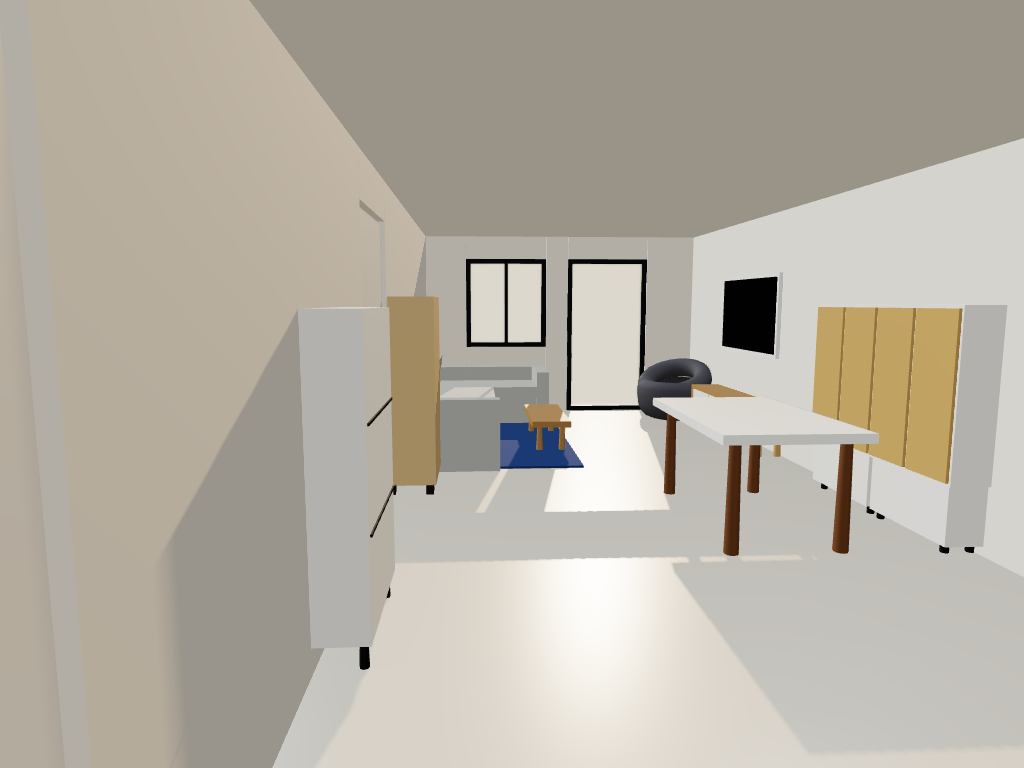
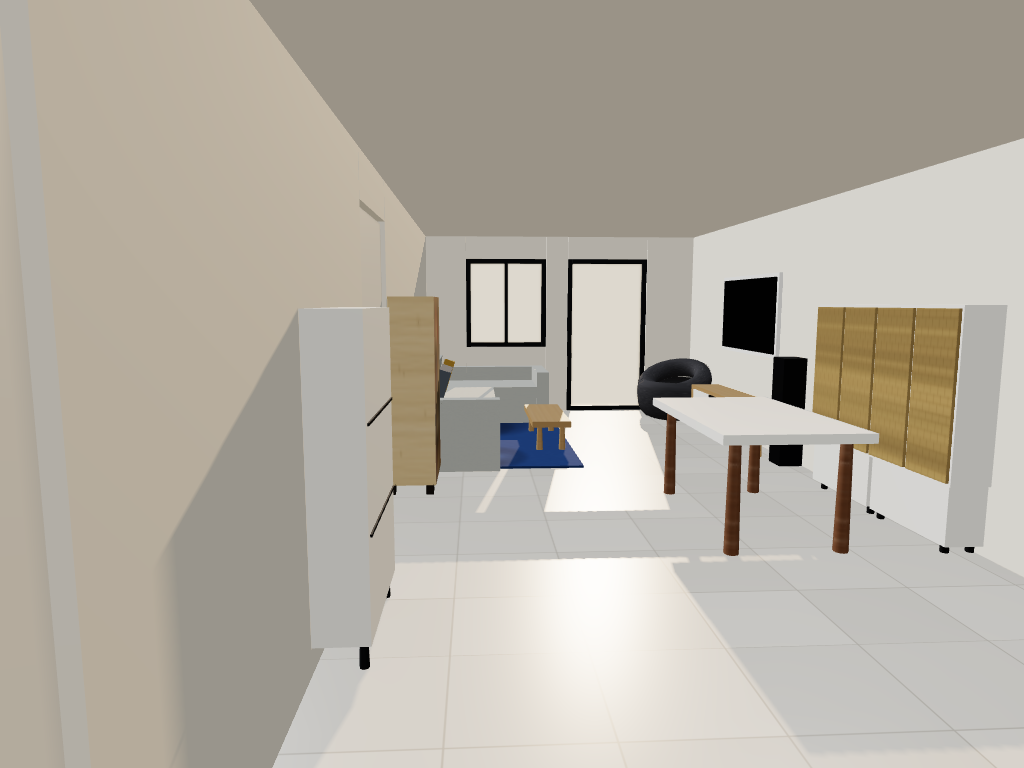
spike 2: D4 — rung 2 procedural textures + interior detail (C1 passed)
C1 verdict on the rungs 0-1 contact sheet: proceed. Rung 2 per the D2
memo's procedural recipes: seeded canvas textures for wood species (oak/
pine/pecan, wavy grain + knots), Lejde fabric w/ weave hatch + bump,
charcoal melange speckle, SONDEROD rug blobs + pile bump, cm-true 60cm
porcelain floor tiles w/ grout + anisotropy, bamboo weave (horizontal
slats — checkered cells mip into mosaic noise at room distance). Detail:
bookshelf front is now 2x4 cubbies of book spines (verified with a
dedicated camera shot), TV stand gained its open media shelf + black
unit, one tower speaker, two throw cushions. controls added to __dbg so
capture scripts can aim custom views.

diff --git a/spike/scene2.html b/spike/scene2.html
@@ -186,27 +186,208 @@ function std(opts) {
   return m;
 }
 
+/* ------------------------------------------------------------
+   RUNG 2 — procedural canvas textures (per D2 memo: procedural
+   clears the Tier 1 bar for every item; zero assets on disk).
+   Seeded RNG so every capture renders the identical scene.
+   ------------------------------------------------------------ */
+let _seed = 42;
+function R() { _seed = (_seed * 1664525 + 1013904223) >>> 0; return _seed / 4294967296; }
+const clamp8 = v => Math.max(0, Math.min(255, Math.round(v)));
+
+function makeCanvas(w, h, draw) {
+  const c = document.createElement("canvas");
+  c.width = w; c.height = h;
+  draw(c.getContext("2d"), w, h);
+  return c;
+}
+function colorTex(canvas, repeat = [1, 1]) {
+  const t = new THREE.CanvasTexture(canvas);
+  t.wrapS = t.wrapT = THREE.RepeatWrapping;
+  t.repeat.set(repeat[0], repeat[1]);
+  t.colorSpace = THREE.SRGBColorSpace;
+  return t;
+}
+function dataTex(canvas, repeat = [1, 1]) { // non-color (bump maps)
+  const t = new THREE.CanvasTexture(canvas);
+  t.wrapS = t.wrapT = THREE.RepeatWrapping;
+  t.repeat.set(repeat[0], repeat[1]);
+  return t;
+}
+
+// wood: wavy grain bands along x over a base tone, optional knots (the pine tell)
+function woodCanvas({ base, streak, contrast = 0.10, knots = 0 }) {
+  return makeCanvas(512, 512, (ctx) => {
+    ctx.fillStyle = base; ctx.fillRect(0, 0, 512, 512);
+    for (let i = 0; i < 150; i++) {
+      const y = R() * 512, phase = R() * Math.PI * 2;
+      ctx.globalAlpha = 0.04 + R() * contrast;
+      ctx.strokeStyle = R() < 0.72 ? streak : "#ffffff";
+      ctx.lineWidth = 1 + R() * 3;
+      ctx.beginPath();
+      for (let x = 0; x <= 512; x += 32) {
+        const yy = y + Math.sin(x / 512 * Math.PI * 2 + phase) * 3;
+        x === 0 ? ctx.moveTo(x, yy) : ctx.lineTo(x, yy);
+      }
+      ctx.stroke();
+    }
+    ctx.globalAlpha = 1;
+    for (let k = 0; k < knots; k++) {
+      const kx = 60 + R() * 392, ky = 60 + R() * 392, kr = 8 + R() * 10;
+      for (let ring = kr; ring > 0; ring -= 2.5) {
+        ctx.globalAlpha = 0.10 + 0.05 * (kr - ring) / kr;
+        ctx.strokeStyle = streak;
+        ctx.lineWidth = 1.5;
+        ctx.beginPath();
+        ctx.ellipse(kx, ky, ring * 1.5, ring, 0.3, 0, Math.PI * 2);
+        ctx.stroke();
+      }
+      ctx.globalAlpha = 0.35; ctx.fillStyle = "#3a2814";
+      ctx.beginPath(); ctx.ellipse(kx, ky, 4, 2.5, 0.3, 0, Math.PI * 2); ctx.fill();
+    }
+    ctx.globalAlpha = 1;
+  });
+}
+
+// fabric: per-pixel noise around a base color, optional faint diagonal hatch,
+// optional bright flecks (melange)
+function fabricCanvas(baseRGB, spread, { hatch = false, flecks = 0 } = {}) {
+  return makeCanvas(256, 256, (ctx) => {
+    const img = ctx.createImageData(256, 256);
+    for (let i = 0; i < img.data.length; i += 4) {
+      const n = (R() - 0.5) * spread;
+      img.data[i]     = clamp8(baseRGB[0] + n);
+      img.data[i + 1] = clamp8(baseRGB[1] + n);
+      img.data[i + 2] = clamp8(baseRGB[2] + n);
+      img.data[i + 3] = 255;
+    }
+    ctx.putImageData(img, 0, 0);
+    if (hatch) {
+      ctx.globalAlpha = 0.05; ctx.strokeStyle = "#000"; ctx.lineWidth = 1;
+      for (let d = -256; d < 512; d += 5) {
+        ctx.beginPath(); ctx.moveTo(d, 0); ctx.lineTo(d + 256, 256); ctx.stroke();
+      }
+      ctx.globalAlpha = 1;
+    }
+    for (let i = 0; i < flecks; i++) {
+      ctx.globalAlpha = 0.35 + R() * 0.4;
+      ctx.fillStyle = R() < 0.5 ? "#e8e8e8" : "#0a0a0a";
+      ctx.fillRect(R() * 256, R() * 256, 1 + R() * 1.5, 1);
+    }
+    ctx.globalAlpha = 1;
+  });
+}
+
+// bamboo weave: wide horizontal slats + thin vertical stitch seams. A checkered
+// H/V cell pattern was tried first but mip-filters into mosaic noise at room
+// distance; horizontal banding survives minification and still reads "woven".
+const bambooCanvas = makeCanvas(256, 256, (ctx) => {
+  const rows = 18, rh = 256 / rows;
+  for (let r = 0; r < rows; r++) {
+    const l = 0.82 + (R() - 0.5) * 0.16;
+    ctx.fillStyle = `rgb(${clamp8(201 * l)},${clamp8(168 * l)},${clamp8(107 * l)})`;
+    ctx.fillRect(0, r * rh, 256, rh);
+    ctx.fillStyle = "rgba(60,40,15,0.30)";
+    ctx.fillRect(0, r * rh, 256, 1.5);                       // slat shadow line
+    const offset = (r % 2) * 21;                             // staggered stitches
+    for (let x = offset; x < 256; x += 42) {
+      ctx.fillStyle = "rgba(60,40,15,0.22)";
+      ctx.fillRect(x, r * rh, 2.5, rh);
+    }
+  }
+});
+
+// SÖNDERÖD rug: overlapping blue watercolor blobs + heavy fine noise
+const rugCanvas = makeCanvas(512, 512, (ctx) => {
+  ctx.fillStyle = "#2e4a7d"; ctx.fillRect(0, 0, 512, 512);
+  const blues = ["#1f3a6b", "#3d5c96", "#27446f", "#4a6aa4", "#16305c"];
+  for (let i = 0; i < 6; i++) {
+    const x = R() * 512, y = R() * 512, r = 90 + R() * 160;
+    const g = ctx.createRadialGradient(x, y, 10, x, y, r);
+    g.addColorStop(0, blues[i % blues.length] + "cc");
+    g.addColorStop(1, "#00000000");
+    ctx.fillStyle = g;
+    ctx.beginPath(); ctx.arc(x, y, r, 0, Math.PI * 2); ctx.fill();
+  }
+  for (let i = 0; i < 16000; i++) {
+    ctx.globalAlpha = 0.10 + R() * 0.12;
+    ctx.fillStyle = R() < 0.5 ? "#0d1c38" : "#6a86b8";
+    ctx.fillRect(R() * 512, R() * 512, 1.5, 1.5);
+  }
+  ctx.globalAlpha = 1;
+});
+const rugBumpCanvas = fabricCanvas([128, 128, 128], 150); // pile depth noise
+
+// floor: 4x4 grid of 60 cm porcelain tiles (canvas covers 240x240 cm),
+// per-tile luminance jitter + grout lines
+const floorCanvas = makeCanvas(1024, 1024, (ctx) => {
+  for (let r = 0; r < 4; r++) for (let c = 0; c < 4; c++) {
+    const l = 1 + (R() - 0.5) * 0.05;
+    ctx.fillStyle = `rgb(${clamp8(217 * l)},${clamp8(212 * l)},${clamp8(203 * l)})`;
+    ctx.fillRect(c * 256, r * 256, 256, 256);
+  }
+  ctx.strokeStyle = "#b6b0a6"; ctx.lineWidth = 3;
+  for (let i = 0; i <= 4; i++) {
+    ctx.beginPath(); ctx.moveTo(i * 256, 0); ctx.lineTo(i * 256, 1024); ctx.stroke();
+    ctx.beginPath(); ctx.moveTo(0, i * 256); ctx.lineTo(1024, i * 256); ctx.stroke();
+  }
+});
+
+// bookshelf front: pine frame, 2x4 dark cubbies packed with colored book spines
+const bookshelfFrontCanvas = makeCanvas(256, 512, (ctx) => {
+  ctx.fillStyle = "#d9bf94"; ctx.fillRect(0, 0, 256, 512);
+  const spineColors = ["#7d5a44", "#4a5a6a", "#8a3b34", "#b5a075", "#3c4a3a",
+                       "#8c8c94", "#5a4a6e", "#c47f4a", "#33566e", "#a89a56"];
+  const cols = 2, rows = 4, m = 10;
+  const cw = (256 - m * (cols + 1)) / cols, rh = (512 - m * (rows + 1)) / rows;
+  for (let r = 0; r < rows; r++) for (let c = 0; c < cols; c++) {
+    const x0 = m + c * (cw + m), y0 = m + r * (rh + m);
+    ctx.fillStyle = "#241d16"; ctx.fillRect(x0, y0, cw, rh);        // dark cubby back
+    let x = x0 + 3;
+    while (x < x0 + cw - 6) {
+      const w = 6 + R() * 14;
+      if (R() < 0.12) { x += 10; continue; }                        // occasional gap
+      const h = rh * (0.55 + R() * 0.35);
+      ctx.fillStyle = R() < 0.9
+        ? spineColors[Math.floor(R() * spineColors.length)]
+        : "#d8483c";                                                // rare bright spine
+      ctx.fillRect(x, y0 + rh - h, Math.min(w, x0 + cw - x) - 1.5, h);
+      x += w;
+    }
+  }
+});
+
+const oakCanvas      = woodCanvas({ base: "#b08d5e", streak: "#6d4c28", contrast: 0.12 });
+const oakLightCanvas = woodCanvas({ base: "#c49a63", streak: "#8a6534", contrast: 0.10 });
+const pineCanvas     = woodCanvas({ base: "#d9bf94", streak: "#9c7c4a", contrast: 0.10, knots: 5 });
+const pecanCanvas    = woodCanvas({ base: "#7a5236", streak: "#452b16", contrast: 0.14 });
+const sofaCanvas     = fabricCanvas([185, 186, 181], 26, { hatch: true });
+const melangeCanvas  = fabricCanvas([58, 58, 62], 55, { flecks: 900 });
+
 const MAT = {
-  // room shell
-  floorTile:   std({ color: 0xd8d1c4, roughness: 0.28, metalness: 0.0 }), // light-greige porcelain, slightly reflective
+  // room shell (floor material is built per-rect in addFloor for cm-true tile repeat)
   wall:        std({ color: 0xf0e9dc, roughness: 0.92 }),                 // warm white
   ceiling:     std({ color: 0xf5f1e9, roughness: 0.95 }),
   doorLeaf:    std({ color: 0xefeae0, roughness: 0.6 }),                  // closed white interior doors
   charcoalAlu: std({ color: 0x33363a, roughness: 0.45, metalness: 0.65 }),// window/door frames
-  // furniture
-  sofaFabric:  std({ color: 0xb9bab5, roughness: 0.95 }),  // Lejde light grey
-  chairFabric: std({ color: 0x55555b, roughness: 0.97 }),  // charcoal melange, reads dark grey
-  rugBlue:     std({ color: 0x2e4a7d, roughness: 1.0 }),   // SÖNDERÖD high-pile blue
-  oak:         std({ color: 0xb0854f, roughness: 0.55 }),  // TV stand frame, GUTTANE
-  oakLight:    std({ color: 0xc49a63, roughness: 0.55 }),  // tapered light-wood legs
-  pine:        std({ color: 0xd9b988, roughness: 0.6 }),   // bookshelf
-  pecan:       std({ color: 0x7a4f2c, roughness: 0.5 }),   // dining table legs
+  // furniture — Lejde grey w/ weave hatch, charcoal melange, blue high pile
+  sofaFabric:  std({ map: colorTex(sofaCanvas, [3, 3]), bumpMap: dataTex(sofaCanvas, [3, 3]), bumpScale: 0.3, roughness: 0.95 }),
+  chairFabric: std({ map: colorTex(melangeCanvas, [2, 2]), roughness: 0.97 }),
+  rugBlue:     std({ map: colorTex(rugCanvas), bumpMap: dataTex(rugBumpCanvas, [6, 6]), bumpScale: 0.9, roughness: 1.0 }),
+  oak:         std({ map: colorTex(oakCanvas), roughness: 0.55 }),        // TV stand frame, GUTTANE
+  oakLight:    std({ map: colorTex(oakLightCanvas), roughness: 0.55 }),   // tapered light-wood legs
+  pine:        std({ map: colorTex(pineCanvas), roughness: 0.6 }),        // bookshelf carcass
+  bookFront:   std({ map: colorTex(bookshelfFrontCanvas), roughness: 0.75 }), // cubbies + spines
+  pecan:       std({ map: colorTex(pecanCanvas), roughness: 0.5 }),       // dining table legs
   whiteLacquer:std({ color: 0xf6f4ef, roughness: 0.18 }),  // dining table top
   ikeaWhite:   std({ color: 0xf1efe9, roughness: 0.55 }),  // Billy carcass, STÄLL, drawer fronts
-  bamboo:      std({ color: 0xc7a05e, roughness: 0.65 }),  // Billy woven bamboo doors (flat tone at rung 1)
+  bamboo:      std({ map: colorTex(bambooCanvas), roughness: 0.4 }),      // Billy woven doors, clear lacquer
   darkWood:    std({ color: 0x2c241c, roughness: 0.7 }),   // bookshelf legs
-  blackPlastic:std({ color: 0x141416, roughness: 0.45 }),  // water cooler body
+  recessDark:  std({ color: 0x17140f, roughness: 0.9 }),   // open-shelf shadow recess
+  blackPlastic:std({ color: 0x141416, roughness: 0.45 }),  // water cooler body, speakers
   stainless:   std({ color: 0xaeb3b5, roughness: 0.3, metalness: 1.0 }),
+  cushionMustard: std({ color: 0xa9832f, roughness: 0.95 }),
+  cushionSlate:   std({ color: 0x5f6670, roughness: 0.95 }),
   tvBezel:     std({ color: 0xf4f3f0, roughness: 0.4 }),   // Frame TV WHITE bezel
   tvScreen:    std({ color: 0x0a0a0d, roughness: 0.25 })   // dark screen, slightly glossy
 };
@@ -274,7 +455,10 @@ function reg(mesh, { cast = true, receive = true } = {}) {
 function addFloor(rect) {
   const geo = new THREE.PlaneGeometry(rect.w, rect.d);
   geo.rotateX(-Math.PI / 2);
-  const mesh = new THREE.Mesh(geo, MAT.floorTile.clone());
+  // floorCanvas covers 240x240 cm (4 tiles of 60) — repeat keeps tiles cm-true
+  const map = colorTex(floorCanvas, [rect.w / 240, rect.d / 240]);
+  map.anisotropy = renderer.capabilities.getMaxAnisotropy(); // grout shimmers otherwise
+  const mesh = new THREE.Mesh(geo, std({ map, roughness: 0.28, metalness: 0.0 }));
   mesh.material.side = THREE.DoubleSide;
   mesh.position.set(rect.x + rect.w / 2, 0, rect.z + rect.d / 2);
   reg(mesh, { cast: false });
@@ -425,17 +609,25 @@ const BUILDERS = {
     }
   },
 
-  // TV stand: oak frame + three white drawer fronts + tapered light legs
+  // TV stand: oak frame, white drawer fronts left+right, open middle shelf
+  // (dark recess + slim black media unit — the furniture-notes silhouette)
   "tv-stand"(f) {
     const bodyH = f.h - f.legHeight;
     box(f.w, bodyH, f.d, f.x + f.w / 2, f.legHeight + bodyH / 2, f.z + f.d / 2, MAT.oak);
-    // three flat white drawer fronts on the room-facing (south, +z) face
     const frontZ = f.z + f.d + 1;
     const dw = (f.w - 24) / 3;
     for (let i = 0; i < 3; i++) {
-      box(dw - 3, bodyH - 8, 2, f.x + 12 + dw * i + dw / 2, f.legHeight + bodyH / 2, frontZ, MAT.ikeaWhite);
+      const cx = f.x + 12 + dw * i + dw / 2;
+      if (i === 1) {
+        box(dw - 3, bodyH - 8, 2, cx, f.legHeight + bodyH / 2, frontZ, MAT.recessDark);
+        box(dw - 18, 7, 3, cx, f.legHeight + 9, frontZ + 1.5, MAT.blackPlastic); // media unit
+      } else {
+        box(dw - 3, bodyH - 8, 2, cx, f.legHeight + bodyH / 2, frontZ, MAT.ikeaWhite);
+      }
     }
     taperedLegs(f, MAT.oakLight, { legR: 3.5, inset: 10 });
+    // decor: one tower speaker right of the stand (left side is the pod chair)
+    box(22, 100, 25, f.x + f.w + 20, 50, f.z + 14, MAT.blackPlastic);
   },
 
   // Samsung Frame TV: WHITE bezel + dark screen, flush on the north wall
@@ -478,10 +670,14 @@ const BUILDERS = {
     box(f.w - 6, 34, 1.5, f.x + f.w / 2, f.h - 24, f.z + f.d + 0.8, MAT.stainless);
   },
 
-  // pine open bookcase on short dark legs (outline fix per furniture-notes)
+  // pine open bookcase on short dark legs; front face (north, -z: it stands
+  // against the south wall) carries the cubbies-with-book-spines texture
   "bookshelf"(f) {
     const legH = 8;
-    box(f.w, f.h - legH, f.d, f.x + f.w / 2, legH + (f.h - legH) / 2, f.z + f.d / 2, MAT.pine);
+    const faces = [MAT.pine, MAT.pine, MAT.pine, MAT.pine, MAT.pine, MAT.bookFront]; // nz = front
+    const body = new THREE.Mesh(new THREE.BoxGeometry(f.w, f.h - legH, f.d), faces);
+    body.position.set(f.x + f.w / 2, legH + (f.h - legH) / 2, f.z + f.d / 2);
+    reg(body);
     [[f.x + 5, f.z + 5], [f.x + f.w - 5, f.z + 5], [f.x + 5, f.z + f.d - 5], [f.x + f.w - 5, f.z + f.d - 5]]
       .forEach(([lx, lz]) => box(6, legH, 6, lx, legH / 2, lz, MAT.darkWood));
   },
@@ -537,6 +733,16 @@ const BUILDERS = {
     b(armWidth, armH, main.d, main.x + main.w - armWidth / 2, armH / 2, main.z + main.d / 2);
     b(armWidth, armH, chaise.d, chaise.x + armWidth / 2, armH / 2, chaise.z + chaise.d / 2);
     b(chaise.w, armH, armWidth, chaise.x + chaise.w / 2, armH / 2, chaise.z + armWidth / 2);
+
+    // two throw cushions leaning on the back (decor: renders read empty without)
+    for (const [cx, mat, tilt] of [
+      [main.x + 110, MAT.cushionMustard, 0.08],
+      [main.x + 205, MAT.cushionSlate, -0.06]
+    ]) {
+      const cu = box(40, 40, 12, cx, seatH + 16, main.z + mainSeatD - 10, mat, group);
+      cu.rotation.x = -0.30;
+      cu.rotation.z = tilt;
+    }
 
     scene.add(group);
     group.traverse(o => { if (o.isMesh) litMeshes.push(o); });
@@ -767,7 +973,7 @@ function animate() {
 animate();
 
 // debugging hooks for headless capture sessions
-window.__dbg = { scene, renderer, camera, MAT, sun, THREE };
+window.__dbg = { scene, renderer, camera, controls, MAT, sun, THREE };
 </script>
 </body>
 </html>

diff --git a/spike/out2/contact-sheet.html b/spike/out2/contact-sheet.html
@@ -2,17 +2,17 @@
 <html>
 <head>
 <meta charset="utf-8" />
-<title>PoC 2 — checkpoint 1 contact sheet (rungs 0–1)</title>
+<title>PoC 2 — contact sheet (rungs 0–2)</title>
 </head>
 <body style="background:#111;color:#eee;font-family:sans-serif;margin:0;padding:24px;">
-  <h1 style="font-size:20px;">PoC 2 checkpoint 1 — real-time PBR pass (rungs 0–1)</h1>
+  <h1 style="font-size:20px;">PoC 2 — real-time PBR pass (rungs 0–2: C1 passed, textures in)</h1>
   <p style="font-size:13px;color:#999;max-width:820px;">
     Judge against poc2-plan.md &sect;2 <b>Tier 1</b>: can you decide layout / proportion /
-    color questions from these renders? Materials should read as the right category and
-    color (oak as oak, charcoal pod as dark fabric); lighting shouldn't lie about
-    brightness or mood. Texture-level fidelity (wood grain, weave, rug pile) is rung 2 —
-    not in these images yet. Bottom row: spike-1 run-2 AI stills of the same views, for
-    reference on what the rejected path looked like.
+    color questions from these renders? Rung 2 added procedural textures (wood grain,
+    bamboo weave, melange speckle, rug, cm-true 60 cm floor tiles), bookshelf cubbies
+    with book spines, the TV stand's open media shelf, a tower speaker and throw
+    cushions. Right column: spike-1 run-2 AI stills of the same views, for reference on
+    what the rejected path looked like.
   </p>
 
   <h2 style="font-size:16px;color:#aaa;">Couch view</h2>
@@ -41,10 +41,10 @@
 
   <h2 style="font-size:16px;color:#aaa;">Known gaps at this rung (deliberate, not bugs)</h2>
   <ul style="font-size:13px;color:#999;max-width:820px;">
-    <li>Flat colors instead of textures (wood grain, bamboo weave, rug pile, fabric) — rung 2.</li>
     <li>No contact shadows / ambient occlusion, so furniture can look slightly floaty — rung 3 (SSAO).</li>
-    <li>No decor props (books, cushions, speakers), so the room reads empty — rung 2.</li>
-    <li>Bookshelf, water cooler, Billy interiors are still simple masses per the "outline and voids" rule.</li>
+    <li>Lighting/camera polish (tuned sun per reference photos, extra viewpoints) — rung 3.</li>
+    <li>Water cooler and Billy interiors stay simple masses per the "outline and voids" rule.</li>
+    <li>Rug pile depth is bump-faked; true pile is a Tier 2 (path-traced stills) question.</li>
   </ul>
 </body>
 </html>